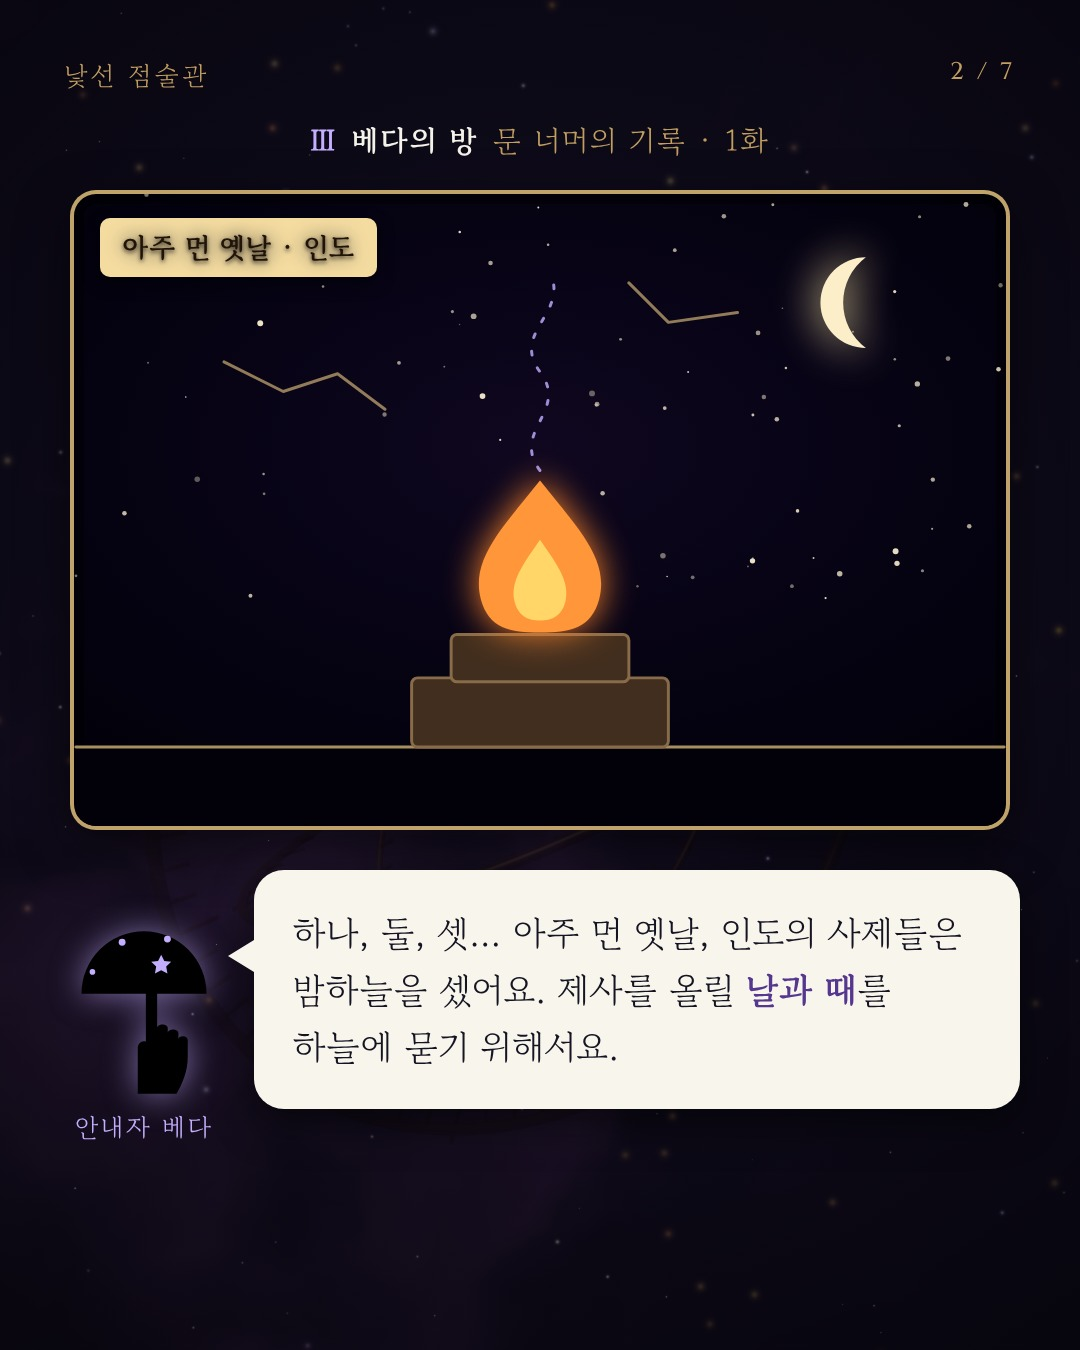
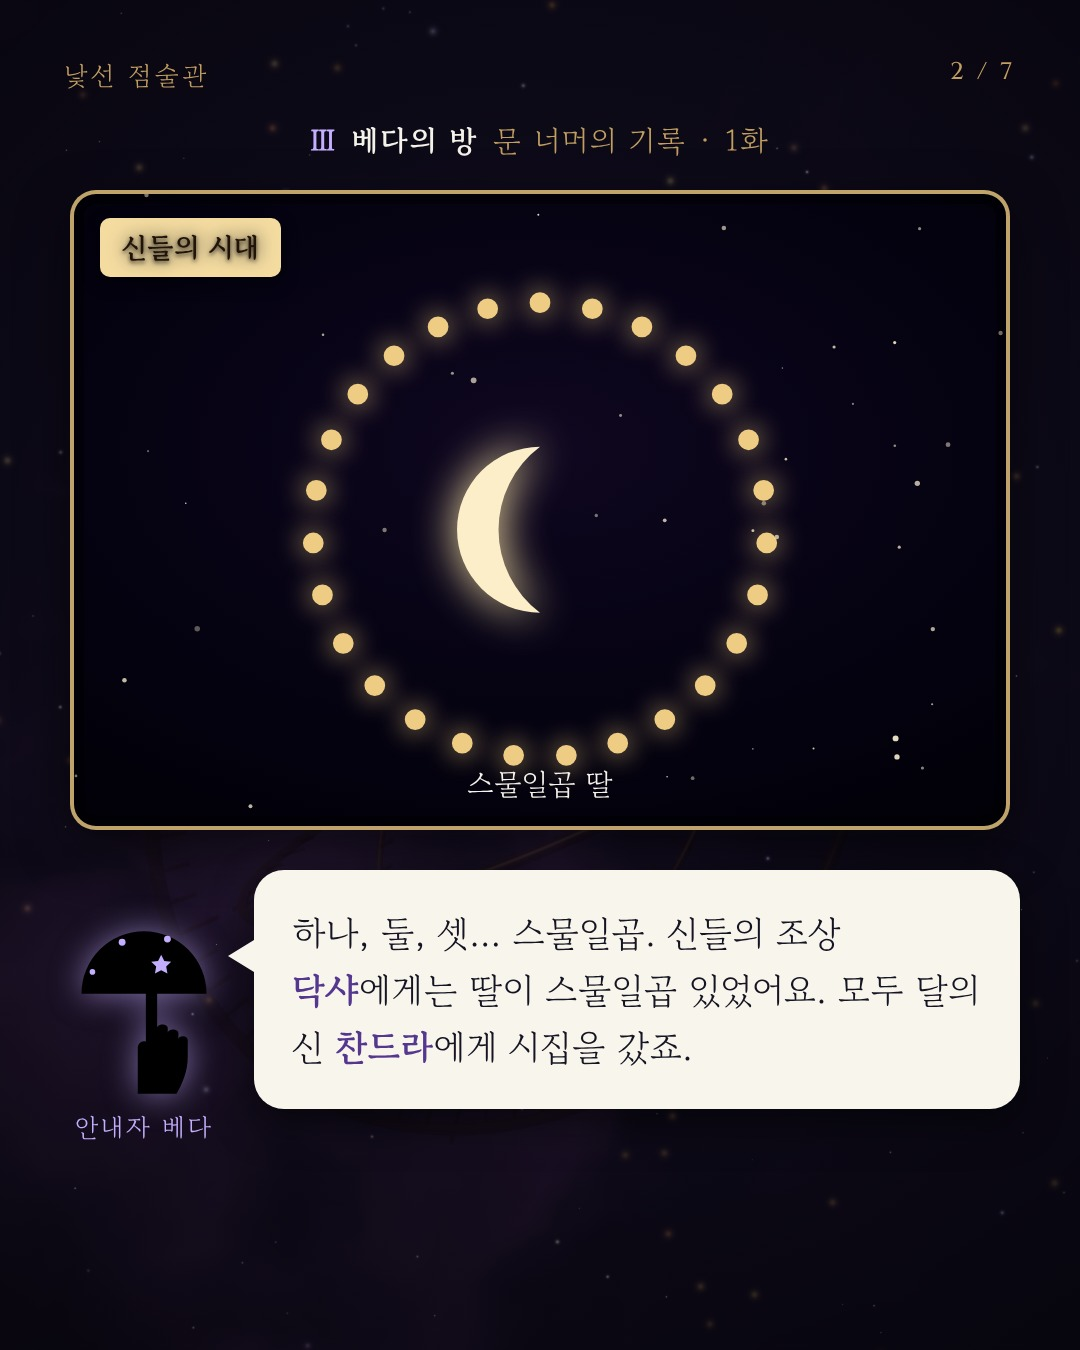
문 너머의 기록 1화: 정보 전달형 → 인도 전설(달과 스물일곱 아내) 이야기로
- lore.js: 전설 장면 넷(daughters/favorite/curse/cycle), 달 모양(phase) 그리기 고침, 전설과 하늘 쪽
- sns.md: 1화 게시글을 전설 버전으로, 2~7화 전설 주제 제안

Claude-Session: https://claude.ai/code/session_016bUbrF7PUbqC6k7uRf6Myo

diff --git a/marketing/strange-oracle/instagram/lore.js b/marketing/strange-oracle/instagram/lore.js
@@ -16,6 +16,14 @@
     const a = -Math.PI / 2 + (i / 27) * Math.PI * 2;
     return `<circle class="dot${i === on ? " on" : ""}" cx="${(cx + r * Math.cos(a)).toFixed(1)}" cy="${(cy + r * Math.sin(a)).toFixed(1)}" r="${i === on ? size * 1.6 : size}" />`;
   }).join("");
+  // 달의 모습: 밝은 부분만 그린다(k 0 = 그믐, 1 = 보름). left = 왼쪽이 밝음(기우는 달). 그믐은 흐린 테두리만
+  const phase = (cx, cy, r, k, left = false) => {
+    const f = (v) => v.toFixed(1), base = `<circle cx="${f(cx)}" cy="${f(cy)}" r="${r}" fill="oklch(0.17 0.03 285)" stroke="oklch(0.6 0.05 90 / 0.45)" stroke-width="2" />`;
+    if (k <= 0.02) return base;
+    if (k >= 0.98) return `${base}<circle class="moon" cx="${f(cx)}" cy="${f(cy)}" r="${r}" />`;
+    const s1 = left ? 0 : 1, ex = (r * Math.abs(2 * k - 1)).toFixed(1), s2 = (k > 0.5) === !left ? 1 : 0;
+    return `${base}<path class="moon" d="M${f(cx)} ${f(cy - r)}A${r} ${r} 0 0 ${s1} ${f(cx)} ${f(cy + r)}A${ex} ${r} 0 0 ${s2} ${f(cx)} ${f(cy - r)}Z" />`;
+  };
   const at = (cx, cy, r, i) => { const a = -Math.PI / 2 + (i / 27) * Math.PI * 2; return [cx + r * Math.cos(a), cy + r * Math.sin(a)]; };
 
   const ART = {
@@ -44,6 +52,23 @@
         <text class="num" x="${n1x.toFixed(1)}" y="${(n1y + 8).toFixed(1)}">1</text><text class="num" x="${n27x.toFixed(1)}" y="${(n27y + 8).toFixed(1)}">27</text>
         <text class="lbl" x="470" y="345">스물일곱 밤에</text><text class="lbl" x="470" y="385">한 바퀴</text>`;
     },
+    // 전설편: 달 둘레의 스물일곱 딸(빛 점)
+    daughters: () => `${stars(40, 940, 640)}${Array.from({ length: 27 }, (_, i) => { const [x, y] = at(470, 340, 230, i); return `<circle class="dot on" cx="${x.toFixed(1)}" cy="${y.toFixed(1)}" r="9" />`; }).join("")}${crescent(470, 340, 84)}
+      <text class="lbl" x="470" y="610">스물일곱 딸</text>`,
+    // 전설편: 넷째 집(로히니)만 밝고 나머지는 캄캄
+    favorite: () => {
+      const [rx, ry] = at(470, 340, 230, 3);
+      return `${stars(30, 940, 640)}${Array.from({ length: 27 }, (_, i) => { const [x, y] = at(470, 340, 230, i); return i === 3 ? "" : `<circle class="dot" cx="${x.toFixed(1)}" cy="${y.toFixed(1)}" r="10" opacity="0.35" />`; }).join("")}
+        <circle class="dot on" cx="${rx.toFixed(1)}" cy="${ry.toFixed(1)}" r="22" />${crescent(rx - 62, ry + 6, 34)}
+        <text class="lbl" x="${(rx + 82).toFixed(1)}" y="${(ry + 10).toFixed(1)}">로히니</text>
+        <text class="lbl" x="470" y="350">나머지 스물여섯 집은</text><text class="lbl" x="470" y="390">늘 캄캄</text>`;
+    },
+    // 전설편: 날마다 줄어드는 달(다섯 모습)
+    curse: () => `${stars(40, 940, 640)}${[1, 0.78, 0.55, 0.32, 0.12].map((k, i) => phase(150 + i * 160, 320, 64, k, true)).join("")}
+      <path class="gd" d="M120 450H820M800 436l20 14l-20 14" opacity="0.8" /><text class="lbl" x="470" y="510">날마다 조금씩</text>`,
+    // 전설편: 보름은 줄고 보름은 차고 (둘레 여덟 모습)
+    cycle: () => `${stars(40, 940, 640)}<circle class="gd" cx="470" cy="330" r="220" opacity="0.3" />${[0, 0.25, 0.5, 0.75, 1, 0.75, 0.5, 0.25].map((k, i) => { const a = Math.PI / 2 + (i / 8) * Math.PI * 2; return phase(470 + 220 * Math.cos(a), 330 + 220 * Math.sin(a), 38, k, i > 4); }).join("")}
+      <text class="lbl" x="470" y="320">보름은 줄고</text><text class="lbl" x="470" y="362">보름은 차오르고</text>`,
     // 4: 태어난 밤 달이 머문 집 + 결혼 날·궁합
     birth: () => {
       const [hx, hy] = at(330, 330, 200, 12);
@@ -63,28 +88,31 @@
 
   // ── 이야기 (한 편 = 한 방)
   const EP = {
+    // 1화 베다: 달과 스물일곱 아내 (시바 푸라나 등에 전하는 전설, 판본마다 조금씩 다름)
     star: {
-      n: 2, ep: 1, name: "베다의 방", guide: "베다", origin: "인도 · 베다 점성술",
-      cover: { hook: "달에게도<br />집이 있다면?", sub: "베다 점성술은 어디서 왔을까" },
+      n: 2, ep: 1, name: "베다의 방", guide: "베다", origin: "인도의 전설",
+      cover: { hook: "달에게 아내가<br />스물일곱?", sub: "달이 차고 기우는 이유, 인도의 전설", art: "cover" },
       scenes: [
-        { cap: "아주 먼 옛날 · 인도", art: "altar", say: "하나, 둘, 셋… 아주 먼 옛날, 인도의 사제들은 밤하늘을 셌어요. 제사를 올릴 <b>날과 때</b>를 하늘에 묻기 위해서요." },
-        { cap: "경전을 돕는 여섯 학문", art: "six", artArgs: ["소리", "운율", "문법", "낱말", "의례", "하늘의 때|조티샤"], say: "베다 경전을 돕는 학문이 여섯 있었어요. 소리, 운율, 문법, 낱말, 의례… 그리고 여섯째, 하늘의 때를 재는 <b>조티샤</b>." },
-        { cap: "하룻밤에 한 집씩", art: "ring", say: "달은 밤마다 한 집씩 옮겨 가요. 스물일곱 밤이면 하늘을 한 바퀴. 그 한 칸 한 칸이 <b>나크샤트라</b>, 달의 집이에요." },
-        { cap: "태어난 밤의 달", art: "birth", say: "그래서 저는 당신이 태어난 밤, 달이 <b>어느 집</b>에 머물렀는지부터 세어요. 인도에선 지금도 결혼 날과 궁합을 이 집으로 맞춰 보곤 해요." },
+        { cap: "신들의 시대", art: "daughters", say: "하나, 둘, 셋… 스물일곱. 신들의 조상 <b>닥샤</b>에게는 딸이 스물일곱 있었어요. 모두 달의 신 <b>찬드라</b>에게 시집을 갔죠." },
+        { cap: "가장 아끼던 아내", art: "favorite", say: "그런데 달은 넷째 아내 <b>로히니</b>만 바라봤어요. 밤이면 밤마다 로히니의 집에만 머물렀죠. 나머지 스물여섯 집은 늘 캄캄했어요." },
+        { cap: "아버지의 저주", art: "curse", say: "서운한 딸들은 아버지에게 돌아갔어요. 화가 난 닥샤는 달에게 저주를 내렸죠. <b>“네 빛이 날마다 줄어들 것이다.”</b>" },
+        { cap: "반쪽짜리 용서", art: "cycle", say: "달은 시바 신에게 빌었어요. 저주를 다 풀 수는 없어, 신은 이렇게 정했죠. <b>보름은 줄고, 보름은 다시 차오르라.</b> 그 뒤로 달은 스물일곱 아내의 집을 하룻밤씩 고루 찾아가요." },
       ],
       facts: {
-        rec: [
-          "조티샤는 베다를 돕는 여섯 학문(베당가) 가운데 하나예요.",
-          "가장 오래된 천문 문헌은 『베당가 조티샤』. 언제 쓰였는지는 학자마다 의견이 달라요.",
-          "달의 집 목록은 베다 문헌에 이미 나와요. 스물일곱, 때로는 스물여덟 칸이에요.",
-          "열두 별자리로 보는 점은 훗날 그리스 점성술과 만나며 더해졌다고 봐요.",
-        ],
+        title: "전설과 하늘",
+        storyLabel: "이렇게 전해요",
         story: [
-          "베다는 움직이지 않는 별을 기준으로 재요. 그래서 서양 별자리와 거의 한 칸쯤 어긋나요.",
-          "집마다의 성격 풀이는 전통에 이 점술관의 이야기를 더한 것이에요.",
+          "인도의 옛 이야기책 『시바 푸라나』 등에 전하는 전설이에요. 판본마다 조금씩 달라요.",
+          "달이 시바 신에게 빌었다는 자리가 지금의 구자라트 솜나트 사원이라고 전해요.",
+        ],
+        recLabel: "실제 하늘에서는",
+        rec: [
+          "달은 약 27.3일에 별들 사이를 한 바퀴 돌아요. 그래서 그 길을 스물일곱 칸, 나크샤트라로 나눴어요.",
+          "넷째 칸 로히니는 황소자리의 붉은 별 알데바란 근처예요.",
+          "베다의 방은 당신이 태어난 밤, 달이 머문 ‘아내의 집’을 찾아요.",
         ],
       },
-      cta: { ask: "당신이 태어난 밤,<br />달은 어느 집에?", sub: "생일과 태어난 시각으로 찾을 수 있어요", pill: "프로필 링크에서 세 번째 문 「베다의 방」", next: "다음 기록 · 시빌라의 예언서" },
+      cta: { ask: "당신이 태어난 밤,<br />달은 누구의 집에?", sub: "생일과 태어난 시각으로 찾을 수 있어요", pill: "프로필 링크에서 세 번째 문 「베다의 방」", next: "다음 기록 · 불타 버린 여섯 권의 예언서" },
     },
   };
 
@@ -112,9 +140,10 @@
       <div class="talk"><div class="who"><svg viewBox="0 0 48 64"><use href="#guide-${key}" /></svg><span>안내자 ${E.guide}</span></div><p class="bubble">${S.say}</p></div>`;
   } else if (p === total - 2) {
     page.classList.add("lr-facts");
-    page.innerHTML = `${head}${tag}<p class="ttl">기록과 이야기</p>
-      <div class="box rec"><span>기록으로 전하는 것</span><ul>${E.facts.rec.map((t) => `<li>${t}</li>`).join("")}</ul></div>
-      <div class="box story"><span>알아 두면 좋은 것 · 해석</span><ul>${E.facts.story.map((t) => `<li>${t}</li>`).join("")}</ul></div>`;
+    const F = E.facts;
+    page.innerHTML = `${head}${tag}<p class="ttl">${F.title || "기록과 이야기"}</p>
+      <div class="box story first"><span>${F.storyLabel || "알아 두면 좋은 것 · 해석"}</span><ul>${F.story.map((t) => `<li>${t}</li>`).join("")}</ul></div>
+      <div class="box rec last"><span>${F.recLabel || "기록으로 전하는 것"}</span><ul>${F.rec.map((t) => `<li>${t}</li>`).join("")}</ul></div>`;
   } else {
     page.classList.add("lr-cta");
     page.innerHTML = `${head}<svg class="art art-cta" viewBox="0 0 560 560">${ART.cover()}</svg>

diff --git a/marketing/strange-oracle/instagram/lore.css b/marketing/strange-oracle/instagram/lore.css
@@ -34,8 +34,10 @@
 /* 기록과 이야기 */
 .lr-facts .ttl { position: absolute; left: 0; right: 0; top: 190px; margin: 0; text-align: center; font-family: var(--punch); font-weight: 900; font-size: 64px; color: var(--gold); }
 .lr-facts .box { position: absolute; left: 80px; right: 80px; padding: 30px 38px 32px; border-radius: 22px; background: oklch(0.1 0.03 285 / 0.7); }
-.lr-facts .box.rec { top: 310px; border: 2px solid color-mix(in oklch, var(--gold) 70%, transparent); }
-.lr-facts .box.story { top: 920px; border: 2px dashed color-mix(in oklch, var(--acc) 70%, transparent); }
+.lr-facts .box.rec { border: 2px solid color-mix(in oklch, var(--gold) 70%, transparent); }
+.lr-facts .box.story { border: 2px dashed color-mix(in oklch, var(--acc) 70%, transparent); }
+.lr-facts .box.first { top: 310px; }
+.lr-facts .box.last { top: 760px; }
 .lr-facts .box span { display: block; font-size: 26px; letter-spacing: 0.12em; color: var(--gold); }
 .lr-facts .box.story span { color: var(--acc); }
 .lr-facts .box ul { margin: 14px 0 0; padding: 0; list-style: none; display: grid; gap: 14px; }

diff --git a/marketing/strange-oracle/sns.md b/marketing/strange-oracle/sns.md
@@ -713,24 +713,38 @@
 - 점검: 첫 줄 14자 안, 이모지 맨 앞 하나(📜), 정확도 과장·불안 재촉·'무료'·건강/죽음 0, 유료 문장 0.
 - #타로: 같은 '골라서 보는' 콘텐츠를 찾는 사람이 가장 많은 태그라 빌려 쓴다. 타로라고 소개하지는 않는다(본문은 신탁).
 
-### 「문 너머의 기록」 유래 그림 이야기 캐러셀 (2026-11-01, `instagram/out/lore/<편>-NN.jpg`, 4:5, 7장)
-쪽 구성: 표지(질문 한 줄) → 장면 넷(그림 칸 + 안내자 말풍선) → 기록과 이야기(사실·전설 구분) → 끝(프로필로, 주인의 봉인). 그림은 직접 그린 SVG와 제품의 안내자 실루엣뿐(8장). 다시 찍기: `render-lore.js [편]`. 새 편은 `instagram/lore.js`의 EP에 더한다.
-순서 제안(하루 한 편): 1 베다 → 2 시빌라 → 3 룬 → 4 데칸 → 5 촐킨 → 6 오검 → 7 만신.
+### 「문 너머의 기록」 전설 그림 이야기 캐러셀 (2026-11-01, `instagram/out/lore/<편>-NN.jpg`, 4:5, 7장)
+운영자 의견(2026-11-01): 유래 설명은 정보 전달이라 느슨하다 → 각 점술에 담긴 **설화·전설**을 주제로 한다.
+쪽 구성: 표지(질문 한 줄) → 장면 넷(그림 칸 + 안내자 말풍선, 이야기만) → 전설과 하늘(어디에 전하는지·판본 차이 / 실제 하늘·방과의 연결) → 끝(프로필로, 주인의 봉인). 그림은 직접 그린 SVG와 제품의 안내자 실루엣뿐(8장). 다시 찍기: `render-lore.js [편]`(이 컨테이너에서는 `EDGE_PATH`에 `--no-sandbox`를 붙인 Chromium 실행 파일). 새 편은 `instagram/lore.js`의 EP에 더한다.
+순서·주제 제안(하루 한 편, 운영자 확인 전):
+| 화 | 방 | 전설 |
+|---|---|---|
+| 1 | 베다 | 달과 스물일곱 아내, 닥샤의 저주 → 달이 차고 기우는 이유 |
+| 2 | 시빌라 | 쿠마이의 무녀와 아홉 권의 예언서, 불타 버린 여섯 권 |
+| 3 | 룬 | 오딘이 세계수에 아흐레 밤 매달려 룬을 얻은 이야기 |
+| 4 | 데칸 | 밤마다 해를 삼키고 아침에 낳는 하늘의 여신 누트 |
+| 5 | 촐킨 | 지하 세계 시발바로 내려간 쌍둥이 영웅(포폴 부) |
+| 6 | 오검 | 말의 신 오그마가 자작나무에 새긴 첫 글자 |
+| 7 | 만신 | 버려진 공주 바리데기, 저승 끝까지 다녀온 길 |
 
 1화 베다 (`out/lore/star-01.jpg` ~ `star-07.jpg`)
 ```
-🌙 달에게도 집이 있다면?
-문 너머의 기록 1화 · 베다 점성술의 유래
+🌙 달에게 아내가 스물일곱?
+문 너머의 기록 1화 · 인도의 전설
 
-아주 먼 옛날 인도, 제사를 올릴 날을 하늘에 묻던 사람들.
-베다 경전을 돕는 여섯 학문 가운데 하나, 하늘의 때를 재는 '조티샤'.
-달이 하룻밤에 한 칸씩 지나는 스물일곱 집, 나크샤트라.
+달의 신 찬드라는 스물일곱 자매와 혼인했지만, 넷째 로히니만 바라봤어요.
+서운한 딸들의 하소연에 아버지 닥샤는 저주를 내렸죠. "네 빛이 날마다 줄어들 것이다."
+시바 신이 내린 반쪽짜리 용서 — 보름은 줄고, 보름은 다시 차오르라.
 
-어디까지가 기록이고 어디부터가 이야기인지는 6장에 나눠 두었어요.
-다음 기록은 시빌라의 예언서. 저장해 두고 이어서 보세요.
+그래서 달은 지금도 스물일곱 아내의 집을 하룻밤씩 찾아간대요.
+당신이 태어난 밤, 달은 누구의 집에 있었을까요?
+
+다음 기록은 불타 버린 여섯 권의 예언서. 저장해 두고 이어서 보세요.
 
 프로필 링크에서 세 번째 문
 
-#베다점성술 #점성술 #별자리 #오늘의운세 #낯선점술관
+#인도신화 #베다점성술 #별자리 #오늘의운세 #낯선점술관
 ```
-- 점검: 첫 줄 14자 안, 이모지 맨 앞 하나(🌙), 정확도 과장·불안 재촉·'무료'·건강/죽음 0, 유료 문장 0. 연대가 갈리는 사실(『베당가 조티샤』 연대)은 "학자마다 의견이 달라요"로 둔다.
+- 점검: 첫 줄 14자 안("달에게 아내가 스물일곱?" 13자), 이모지 맨 앞 하나(🌙), 정확도 과장·불안 재촉·'무료'·건강/죽음 0, 유료 문장 0, 실존 인물 0(신화 인물만).
+- 전설은 『시바 푸라나』 등에 전하며 판본마다 다르다(6장에 적음). 저주의 원인을 "로히니만 편애"로, 결말을 "보름씩 차고 기움"으로 둔 것이 가장 널리 알려진 줄거리.
+- #인도신화: 신화·설화 계정을 보는 사람에게 닿도록 맨 앞에 둔다.
